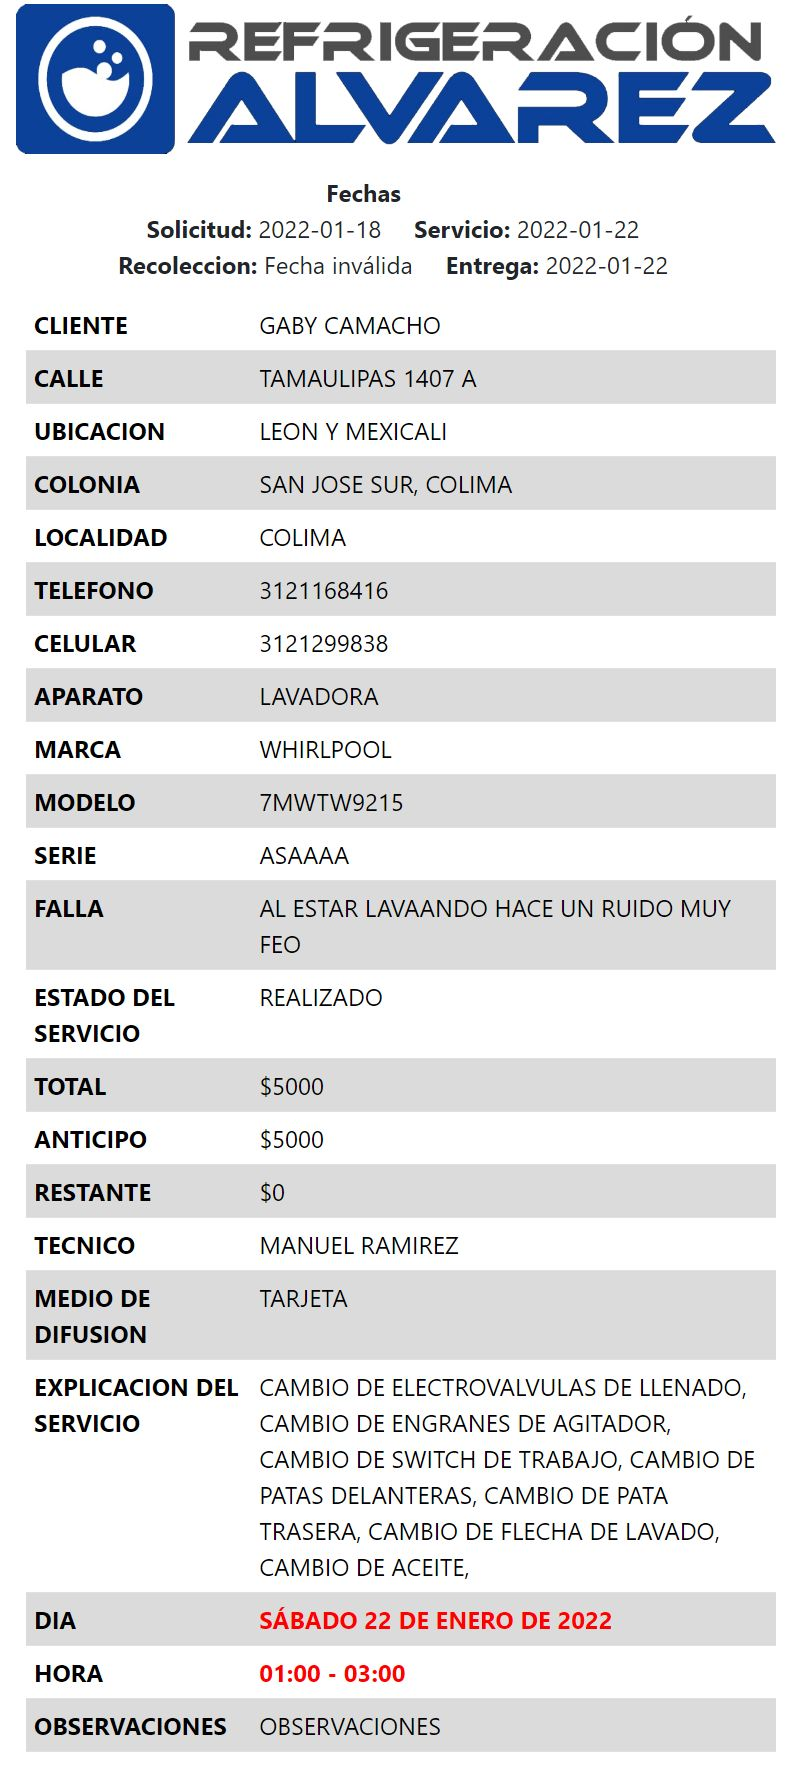
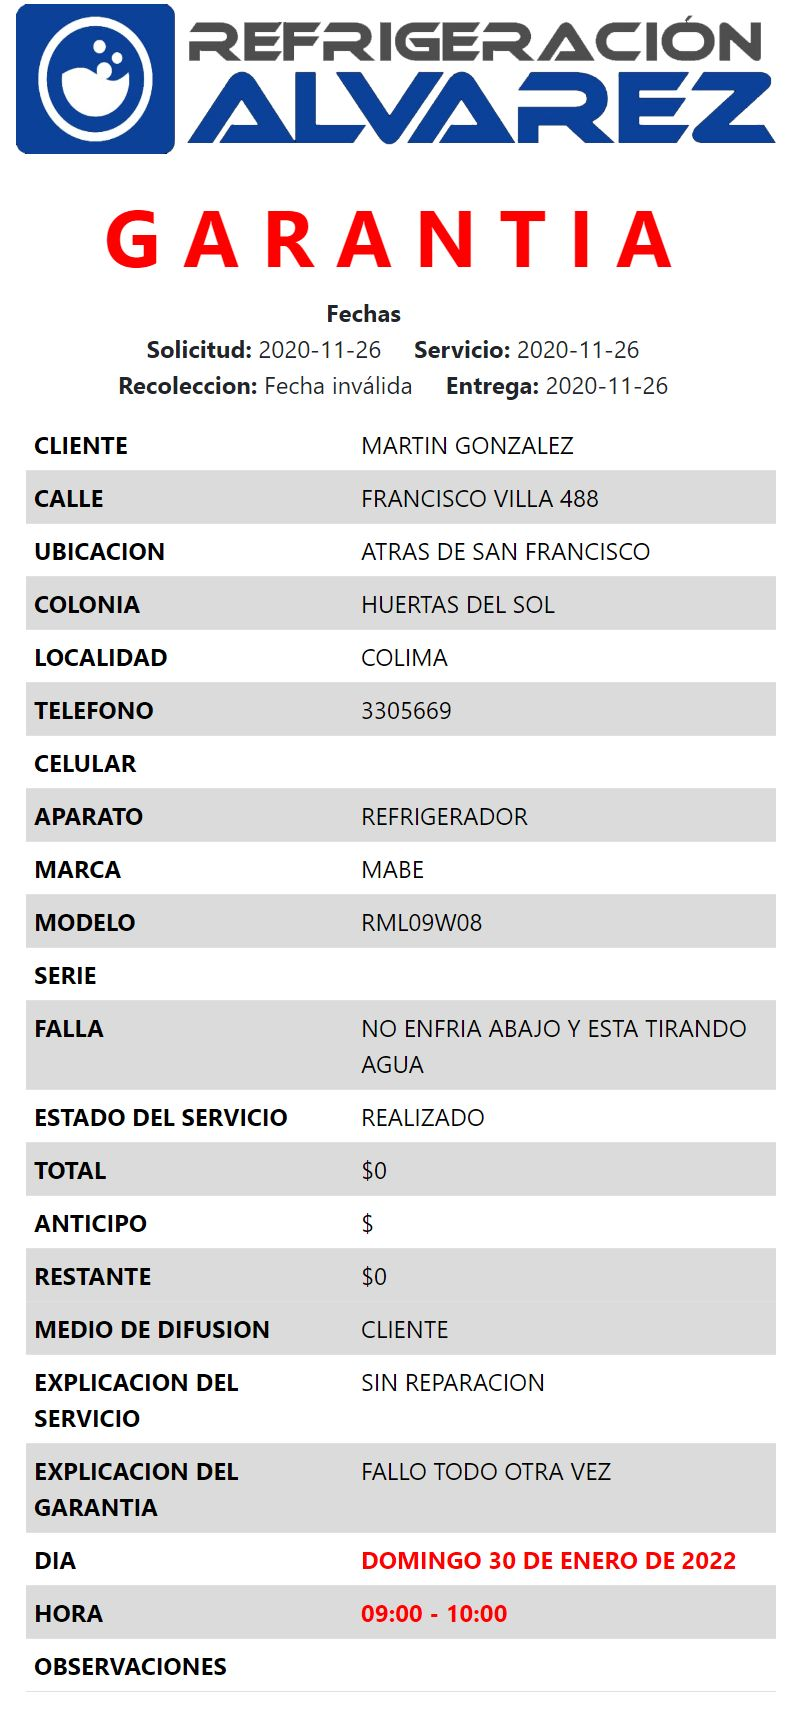
v_F

diff --git a/src/routes/index.js b/src/routes/index.js
@@ -127,6 +127,22 @@ router.post("/editar_equipo", isLoggedIn, async (req, res) => {
 
 })
 
+router.post("/editar_garantia", isLoggedIn, isAdmin, async (req, res) => {
+    let {IdOrdenServicio, FechaGarantia, FechaGarantiaNew, HoraGarantia, NotasGarantia}=req.body
+    let garantia ={FechaGarantia, FechaGarantiaNew, HoraGarantia, NotasGarantia}
+    console.log(IdOrdenServicio, garantia)
+    await pool.query("UPDATE tblordenservicio SET ? WHERE IdOrdenServicio = ?",[garantia,IdOrdenServicio])
+    res.redirect("/ver_garantia"+IdOrdenServicio+"/")
+
+})
+
+router.get("/cerrar_garantia:id/", isLoggedIn, async (req,res) =>{
+    const {id}=req.params
+    await pool.query("UPDATE `tblordenservicio` SET `FechaGarantia` = null WHERE IdOrdenServicio = ?",[id])
+    const cliente = await pool.query("SELECT `IdCliente` FROM `tblordenservicio` WHERE `IdOrdenServicio` = ?",[id])
+    res.redirect("/refrigeracionalvarez/ver_cliente"+cliente[0].IdCliente+"/")
+    })
+
 router.post("/agregar_cliente", isLoggedIn, async (req, res) => {
     let { IdCliente, Nombre, DirColonia, DirCalle, DirNum, DirEntre, Telefono, Celular, RFC, Municipio, CP} = req.body
     let id = req.user.IdUsuario
@@ -173,6 +189,7 @@ router.get("/refrigeracionalvarez/servicios_pendientes", isLoggedIn, async (req,
 
     let cliente = []
     let clienteg = []
+    let clientep = []
     const garantia = await pool.query("SELECT * FROM `tblordenservicio` WHERE `FechaGarantia`<>'null' ORDER BY `FechaVisita` DESC")
     for (let index = 0; index < garantia.length; index++) {
         let Nclienteg = await pool.query("SELECT * FROM tblclientes WHERE `IdCliente`= ?",[garantia[index].IdCliente])
@@ -183,9 +200,25 @@ router.get("/refrigeracionalvarez/servicios_pendientes", isLoggedIn, async (req,
             Calle:Nclienteg[0].DirCalle,
             Colonia:Nclienteg[0].DirColonia,
             FechaVisita:garantia[index].FechaVisita,
-            Hora:garantia[index].Hora
+            FechaGarantiaNew:garantia[index].FechaGarantiaNew,
+            Hora:garantia[index].HoraGarantia
         })
     }
+
+    const proceso = await pool.query("SELECT * FROM `tblordenservicio` WHERE `Realizado`='100' ORDER BY `FechaVisita` DESC")
+    for (let index = 0; index < proceso.length; index++) {
+        let Nclienteg = await pool.query("SELECT * FROM tblclientes WHERE `IdCliente`= ?",[proceso[index].IdCliente])
+        clientep.push({
+            IdOrden:proceso[index].IdOrdenServicio,
+            IdCliente:proceso[index].IdCliente,
+            Nombre:Nclienteg[0].Nombre,
+            Calle:Nclienteg[0].DirCalle,
+            Colonia:Nclienteg[0].DirColonia,
+            FechaRealizacion:proceso[index].FechaRealizacion,
+            Hora:proceso[index].Hora
+        })
+    }
+
     const pendientes = await pool.query("SELECT * FROM `tblordenservicio` WHERE realizado =0 AND `FechaVisita`<>'00000-00-00 00:00:00' ORDER BY `FechaVisita` DESC")
     for (let index = 0; index < pendientes.length; index++) {
         let Ncliente = await pool.query("SELECT * FROM tblclientes WHERE `IdCliente`= ?",[pendientes[index].IdCliente])
@@ -285,7 +318,7 @@ if (time.isBetween(ATime, DTime)) {
 
 
     }
-    res.render("layouts/servicios_pendientes", {pendientes, array, garantia, cliente, clienteg})
+    res.render("layouts/servicios_pendientes", {pendientes, array, garantia, cliente, clienteg, clientep})
 })
 
 
@@ -297,6 +330,8 @@ router.get("/refrigeracionalvarez/ver_cliente:id/", isLoggedIn, async (req, res)
     for (let index = 0; index < orden.length; index++) {
         if (orden[index].Realizado==0) {
             orden[index].Realizado="No"
+        }else if (orden[index].Realizado==100) {
+            orden[index].Realizado="En Taller"
         }else if (orden[index].Realizado==128) {
             orden[index].Realizado="Cotizacion"
         }else{
@@ -531,6 +566,12 @@ let idu = req.user.IdUsuario
 await pool.query("UPDATE tblidnotas SET IdOrden = ? WHERE IdNota = 1",[id])
 res.redirect("/descargar")
 })
+
+router.get("/ver_garantia:id/", isLoggedIn, async (req,res) =>{
+    const {id}=req.params
+    const orden = await pool.query("SELECT * , substring(FechaGarantia,1,10)AS fecha FROM tblordenservicio WHERE IdOrdenServicio = ?",[id])
+        res.render("layouts/garantia",{orden})
+    })
 
 router.get("/ver_pdf:id/", isLoggedIn, async (req,res) =>{
 const {id}=req.params
